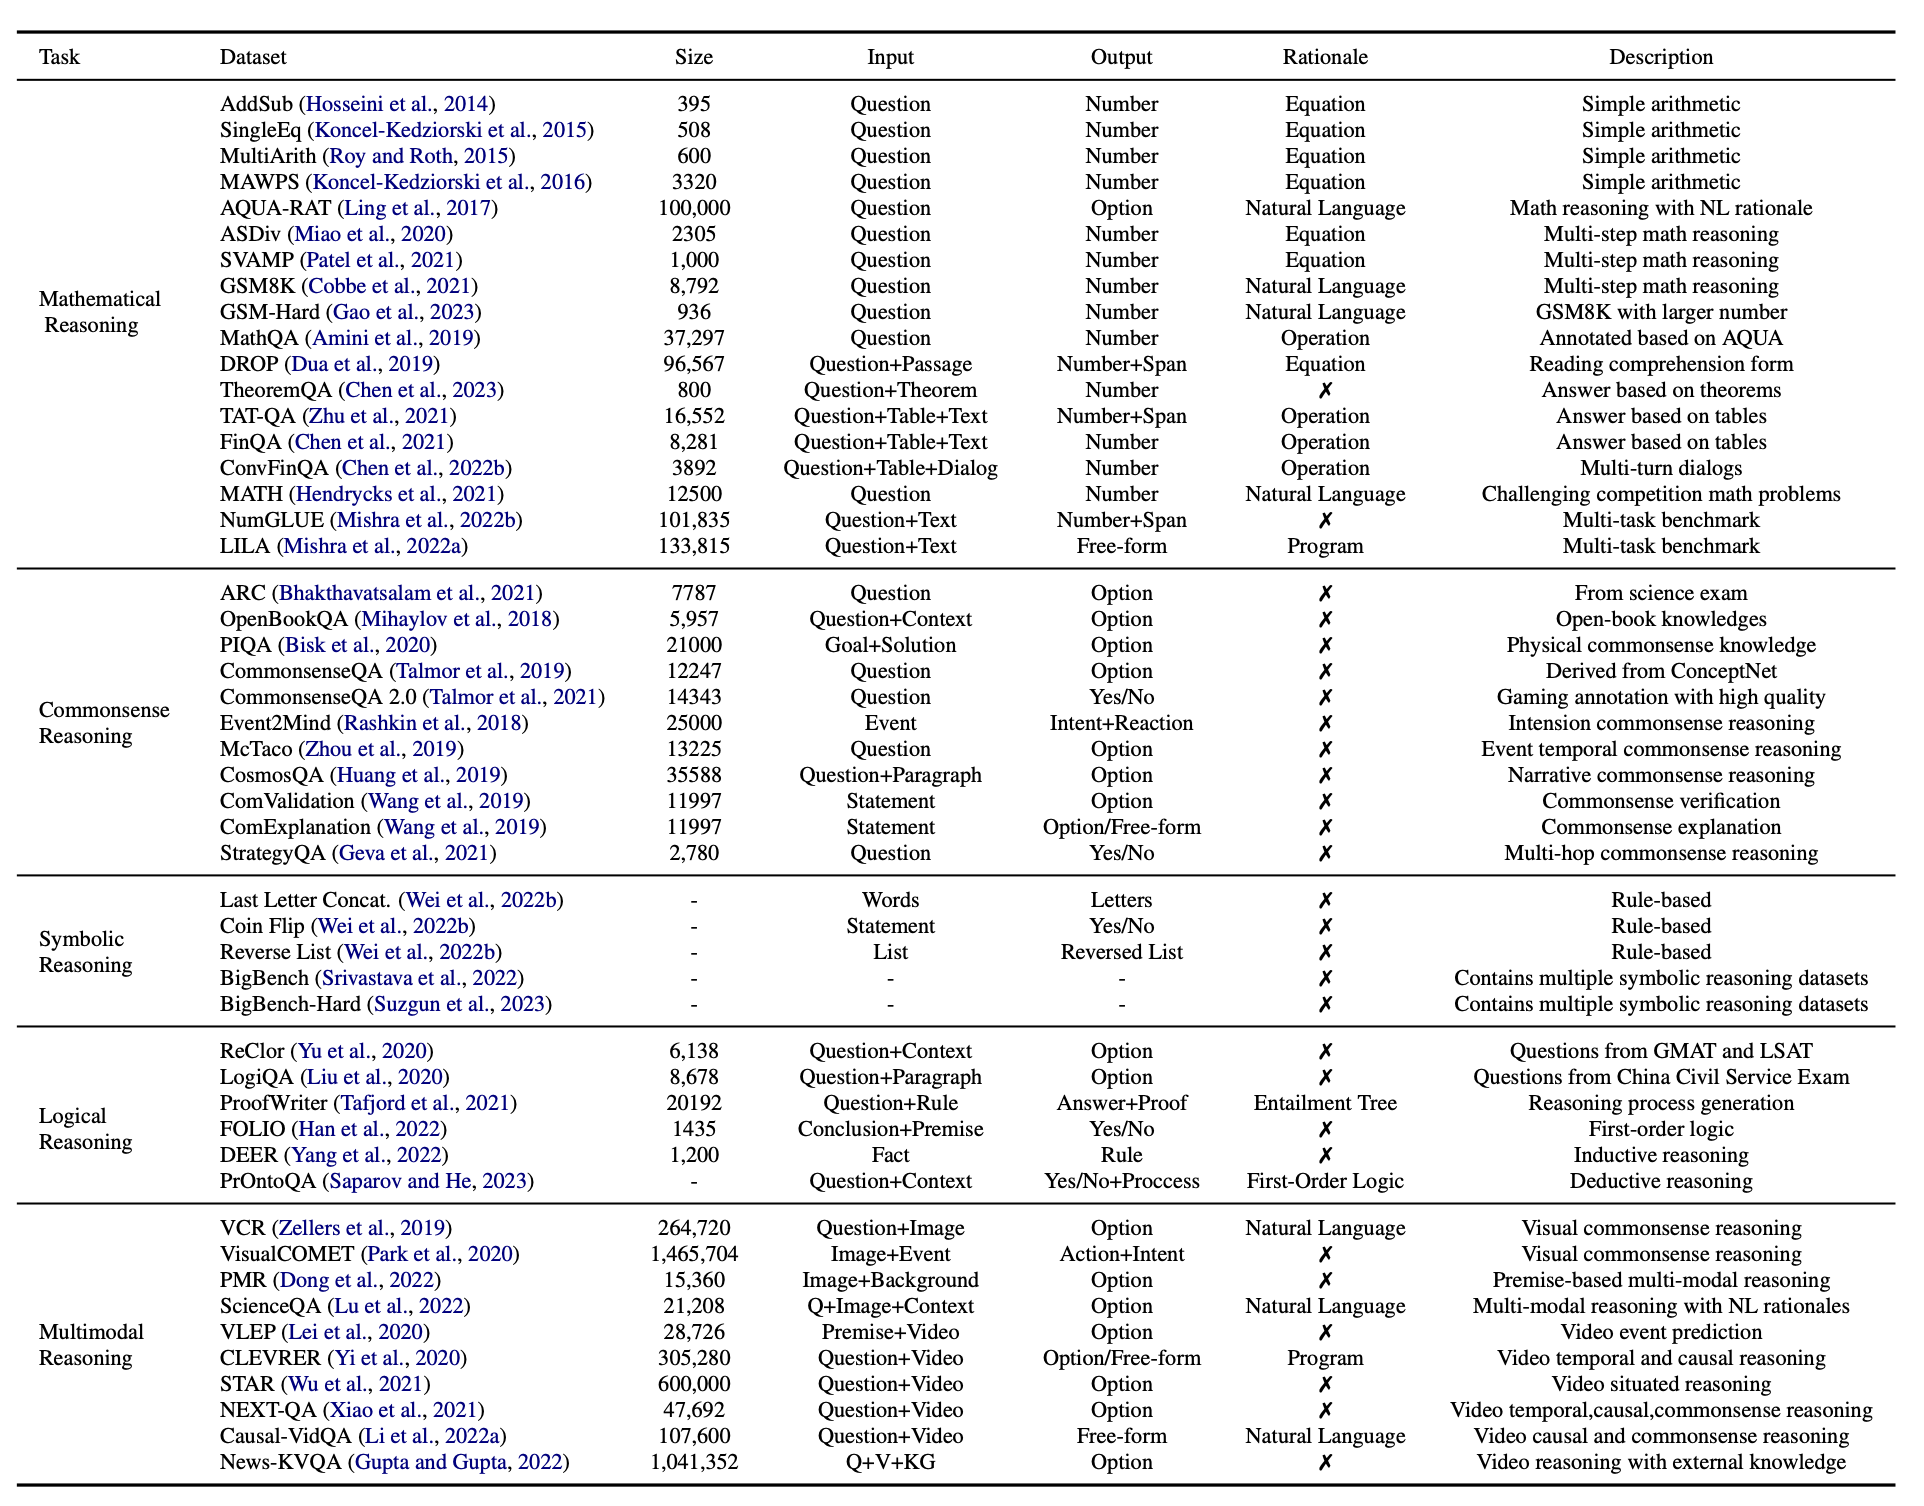
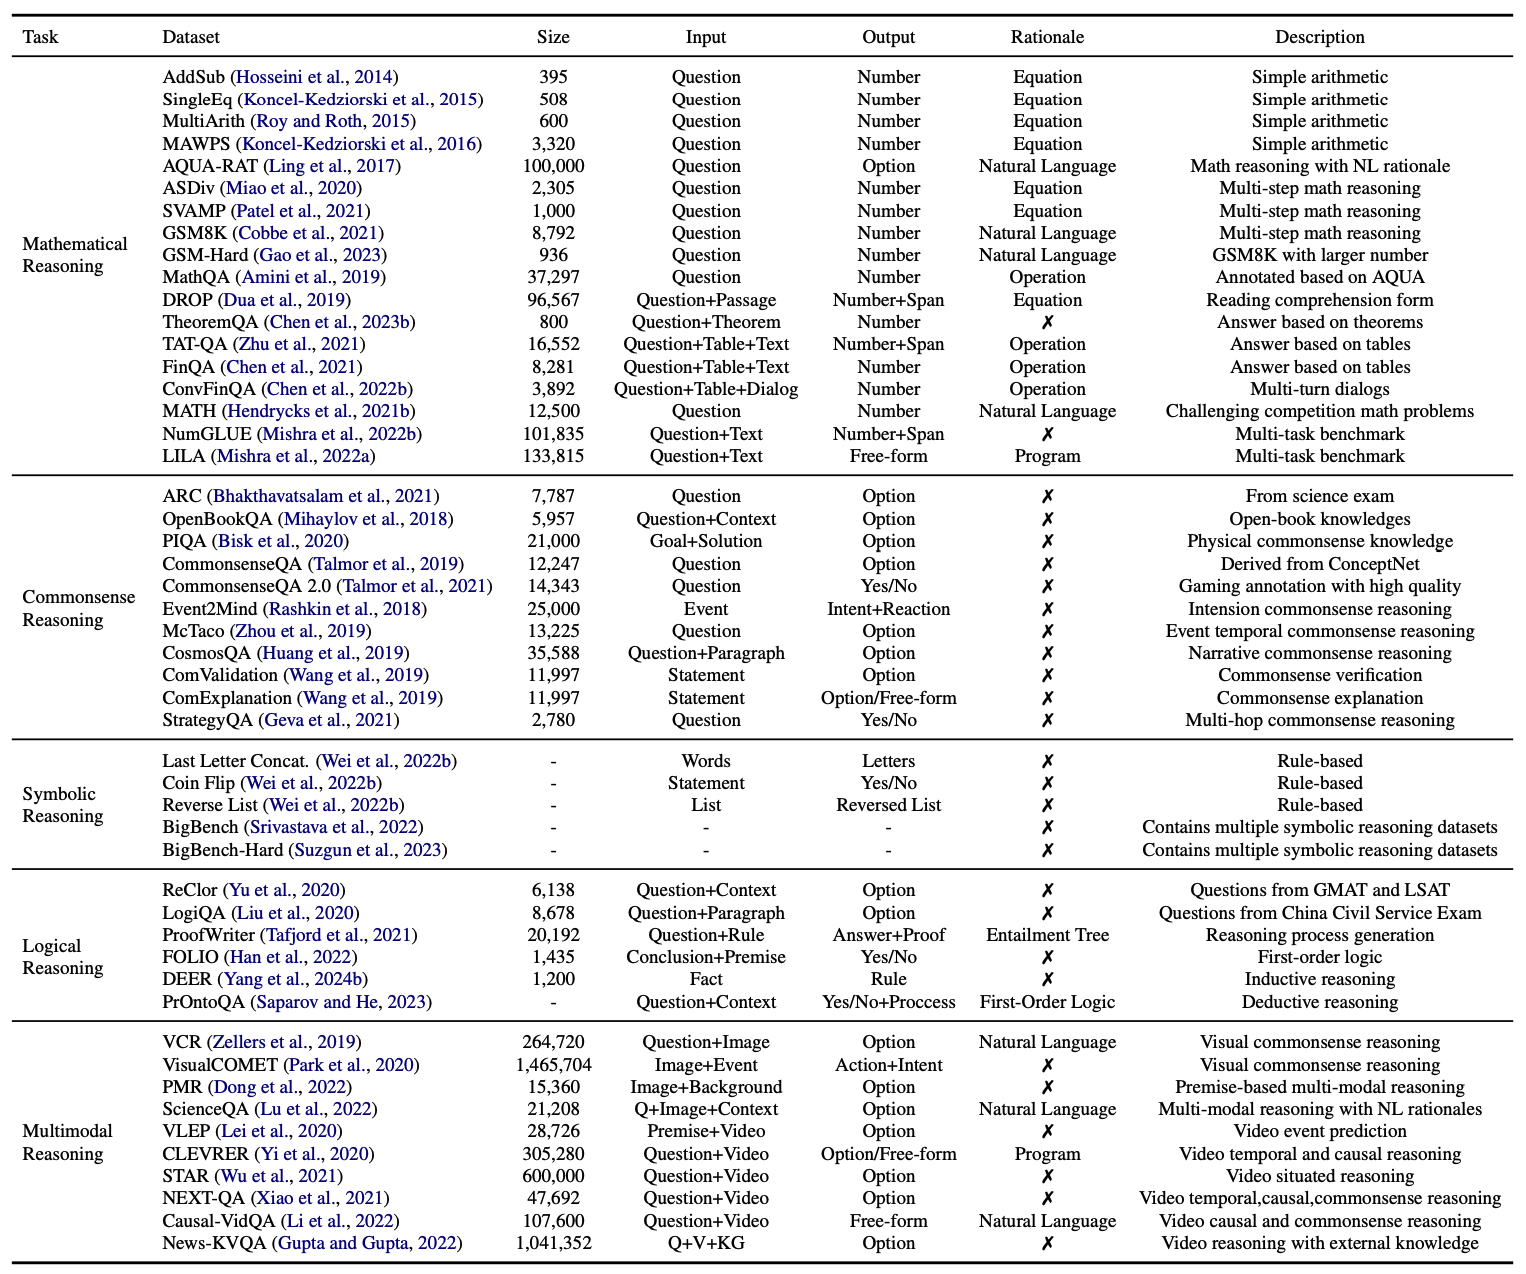
camera ready released, update figures

Changed region(s): [[0.0, 0.0, 0.9856, 1.0], [0.0, 0.7347, 0.0616, 0.7653], [0.0, 0.6122, 0.0616, 0.6429]]

diff --git a/README.md b/README.md
@@ -29,7 +29,8 @@ A Survey of Chain of Thought Reasoning: Advances, Frontiers and Future
 <br />
 
 <div align="center">
-    <a href="https://doi.org/10.48550/arXiv.2309.15402"><img src="https://img.shields.io/badge/arXiv-2309.15402-b31b1b.svg" alt="Paper"></a>
+    <a href="https://doi.org/10.48550/arXiv.2309.15402"><img src="https://img.shields.io/badge/ACL-2024-b31b1b.svg" alt="Paper"></a>
+    <!-- <a href="https://doi.org/10.48550/arXiv.2309.15402"><img src="https://img.shields.io/badge/arXiv-2309.15402-b31b1b.svg" alt="Paper"></a> -->
     <a href="https://github.com/zchuz/CoT-Reasoning-Survey"><img src="https://img.shields.io/github/last-commit/zchuz/CoT-Reasoning-Survey?color=blue" alt="Github"></a>
     <a href="https://github.com/zchuz/CoT-Reasoning-Survey/blob/main/LICENSE"> <img alt="License" src="https://img.shields.io/github/license/zchuz/CoT-Reasoning-Survey?color=green"> </a>
 </div>
@@ -42,7 +43,7 @@ For more details, please refer to the paper: [A Survey of Chain of Thought Reaso
 
 ## 🎉 Updates
 
-- 2024/06/03 This paper is accepted to ACL2024. We will realease the camera ready version soon.
+- 2024/06/03 This paper is accepted to ACL2024, camera ready version released.
 - 2023/10/17 The second version of our paper has been released, check it on [arxiv](https://doi.org/10.48550/arXiv.2309.15402).
 - 2023/10/15 We have updated 44 papers in the reading list, and the v2 paper is on its way.
 - 2023/09/27 The first version of our paper is available on [arxiv](https://doi.org/10.48550/arXiv.2309.15402).
@@ -108,7 +109,7 @@ This reading list will be updated periodically, and if you have any suggestions 
 - **NumGLUE: A Suite of Fundamental yet Challenging Mathematical Reasoning Tasks**, ACL 2022 [[paper](https://doi.org/10.18653/v1/2022.acl-long.246)]
 - **LILA: A Unified Benchmark for Mathematical Reasoning**, EMNLP 2022 [[paper](https://doi.org/10.18653/v1/2022.emnlp-main.392)]
 - **Conic10K: A Challenging Math Problem Understanding and Reasoning Dataset**, EMNLP 2023 [[paper](https://aclanthology.org/2023.findings-emnlp.427.pdf)] 💡
-- 
+
 ### Commonsense Reasoning
 
 - **Think you have Solved Direct-Answer Question Answering? Try ARC-DA, the Direct-Answer AI@ Reasoning Challenge**, arXiv.2102.03315 [[paper](https://doi.org/10.48550/arXiv.2102.03315)]
@@ -353,7 +354,6 @@ This reading list will be updated periodically, and if you have any suggestions 
 - **LINC: A Neurosymbolic Approach for Logical Reasoning by Combining Language Models with First-Order Logic Provers**, EMNLP 2023 [[paper](https://aclanthology.org/2023.emnlp-main.313/)] 💡
 - **Logic-LM: Empowering Large Language Models with Symbolic Solvers for Faithful Logical Reasoning**, EMNLP 2023 [[paper](https://aclanthology.org/2023.findings-emnlp.248/)] 💡
 - **SATLM: Satisfiability-Aided Language Models Using Declarative Prompting**, NeurIPS 2023 [[paper](https://arxiv.org/abs/2305.09656)] 💡
-- 
 
 ### Distillation
 
